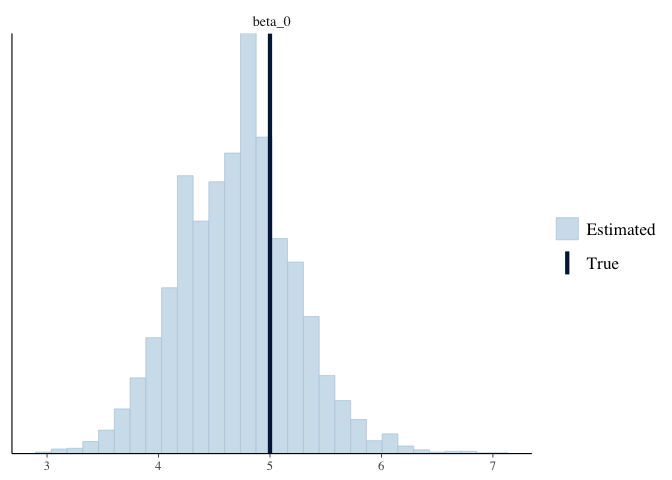
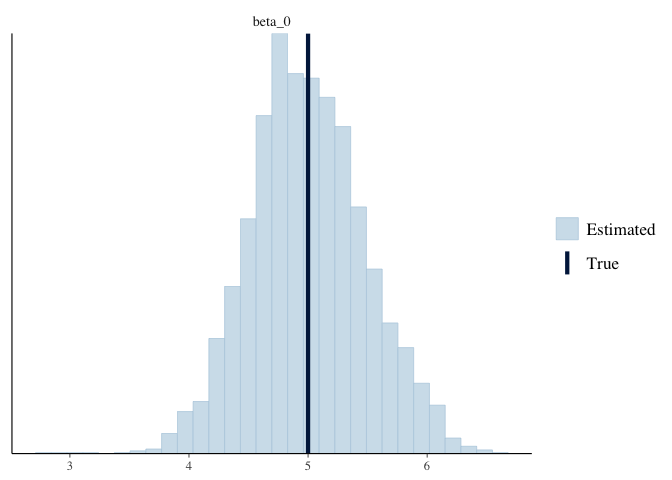
trying more time periods

Changed region(s): [[0.0625, 0.0625, 0.7188, 0.9688], [0.7188, 0.9375, 0.75, 0.9688]]

diff --git a/Writing/02_bscm-intercept.md b/Writing/02_bscm-intercept.md
@@ -6,7 +6,7 @@ The purpose of this file is to add an intercept and horseshoe priors to
 the Bayesian synthetic control method tested in `01_bscm-horseshoe`. The
 model comes from the web index of the Gupta et al, part B.1
 BSCM-Horseshoe, we explore two parameterizations, (1) from the paper
-itself, and (2) from the web appendix.
+itself (centered), and (2) from the web appendix (non-centered).
 
     ## ── Attaching packages ─────────────────────────────────────── tidyverse 1.3.1 ──
 
@@ -51,8 +51,8 @@ Function for making synthetic data: values picked from simulation
 studies done in Gupta et al.
 
 ``` r
-gen_b1_data <- function(N_train=40,     #num of obs in pre treatment
-                        N_test=40,      #num of obs in post treatment 
+gen_b1_data <- function(N_train=80,     #num of obs in pre treatment
+                        N_test=80,      #num of obs in post treatment 
                         p=5,            #num of control units
                         tau=0.01,        #global shrinkage 
                         mu=c(15, 35, 10, 20, 30), 
@@ -98,7 +98,7 @@ b1_data <- gen_b1_data()
 #str(b1_data)
 ```
 
-###### MODEL: PAPER PARAMETERIZATION
+###### MODEL: CENTERED PARAMETERIZATION
 
 Run model using `bcsm_b1_intercept_p1.stan`. This model tries to
 recreate the model according to the syntax in the paper and the
@@ -177,15 +177,11 @@ print(b1_model)
 draws <- sampling(b1_model, data=b1_data, seed=2020, cores=3)
 ```
 
-    ## Warning: There were 734 divergent transitions after warmup. See
+    ## Warning: There were 431 divergent transitions after warmup. See
     ## http://mc-stan.org/misc/warnings.html#divergent-transitions-after-warmup
     ## to find out why this is a problem and how to eliminate them.
 
     ## Warning: Examine the pairs() plot to diagnose sampling problems
-
-    ## Warning: The largest R-hat is 1.08, indicating chains have not mixed.
-    ## Running the chains for more iterations may help. See
-    ## http://mc-stan.org/misc/warnings.html#r-hat
 
     ## Warning: Bulk Effective Samples Size (ESS) is too low, indicating posterior means and medians may be unreliable.
     ## Running the chains for more iterations may help. See
@@ -195,7 +191,7 @@ draws <- sampling(b1_model, data=b1_data, seed=2020, cores=3)
     ## Running the chains for more iterations may help. See
     ## http://mc-stan.org/misc/warnings.html#tail-ess
 
-###### RESULTS: PAPER PARAMETERIZATION
+###### RESULTS: CENTERED PARAMETERIZATION
 
 Check results: the traceplots do not look good, but the sampler recovers
 the beta parameters. The synthetic control matches the treatment group
@@ -333,7 +329,7 @@ total_sc_data %>% ggplot(aes(x=week)) + geom_ribbon(aes(ymin=lower, ymax=upper),
 
 ![](../Figures/bscm/intercept-post-period-1.png)<!-- -->
 
-###### MODEL: APPENDIX PARAMETERIZATION
+###### MODEL: NON-CENTERED PARAMETERIZATION
 
 Run model using `bcsm_b1_intercept_p2.stan`. This model tries to
 recreate the model according to the syntax in the web appendix. This
@@ -415,14 +411,18 @@ print(b1_model_p2)
 draws2 <- sampling(b1_model_p2, data=b1_data, seed=2020, cores=3)
 ```
 
-    ## Warning: There were 116 divergent transitions after warmup. See
+    ## Warning: There were 106 divergent transitions after warmup. See
     ## http://mc-stan.org/misc/warnings.html#divergent-transitions-after-warmup
     ## to find out why this is a problem and how to eliminate them.
 
-    ## Warning: There were 3825 transitions after warmup that exceeded the maximum treedepth. Increase max_treedepth above 10. See
+    ## Warning: There were 3861 transitions after warmup that exceeded the maximum treedepth. Increase max_treedepth above 10. See
     ## http://mc-stan.org/misc/warnings.html#maximum-treedepth-exceeded
 
     ## Warning: Examine the pairs() plot to diagnose sampling problems
+
+    ## Warning: The largest R-hat is 1.1, indicating chains have not mixed.
+    ## Running the chains for more iterations may help. See
+    ## http://mc-stan.org/misc/warnings.html#r-hat
 
     ## Warning: Bulk Effective Samples Size (ESS) is too low, indicating posterior means and medians may be unreliable.
     ## Running the chains for more iterations may help. See
@@ -432,7 +432,7 @@ draws2 <- sampling(b1_model_p2, data=b1_data, seed=2020, cores=3)
     ## Running the chains for more iterations may help. See
     ## http://mc-stan.org/misc/warnings.html#tail-ess
 
-###### RESULTS: APPENDIX PARAMETERIZATION
+###### RESULTS: NON CENTERED PARAMETERIZATION
 
 Check results: The model recovers well, the traceplots look good and the
 synthetic control matches the treatment unit in the pre period.
